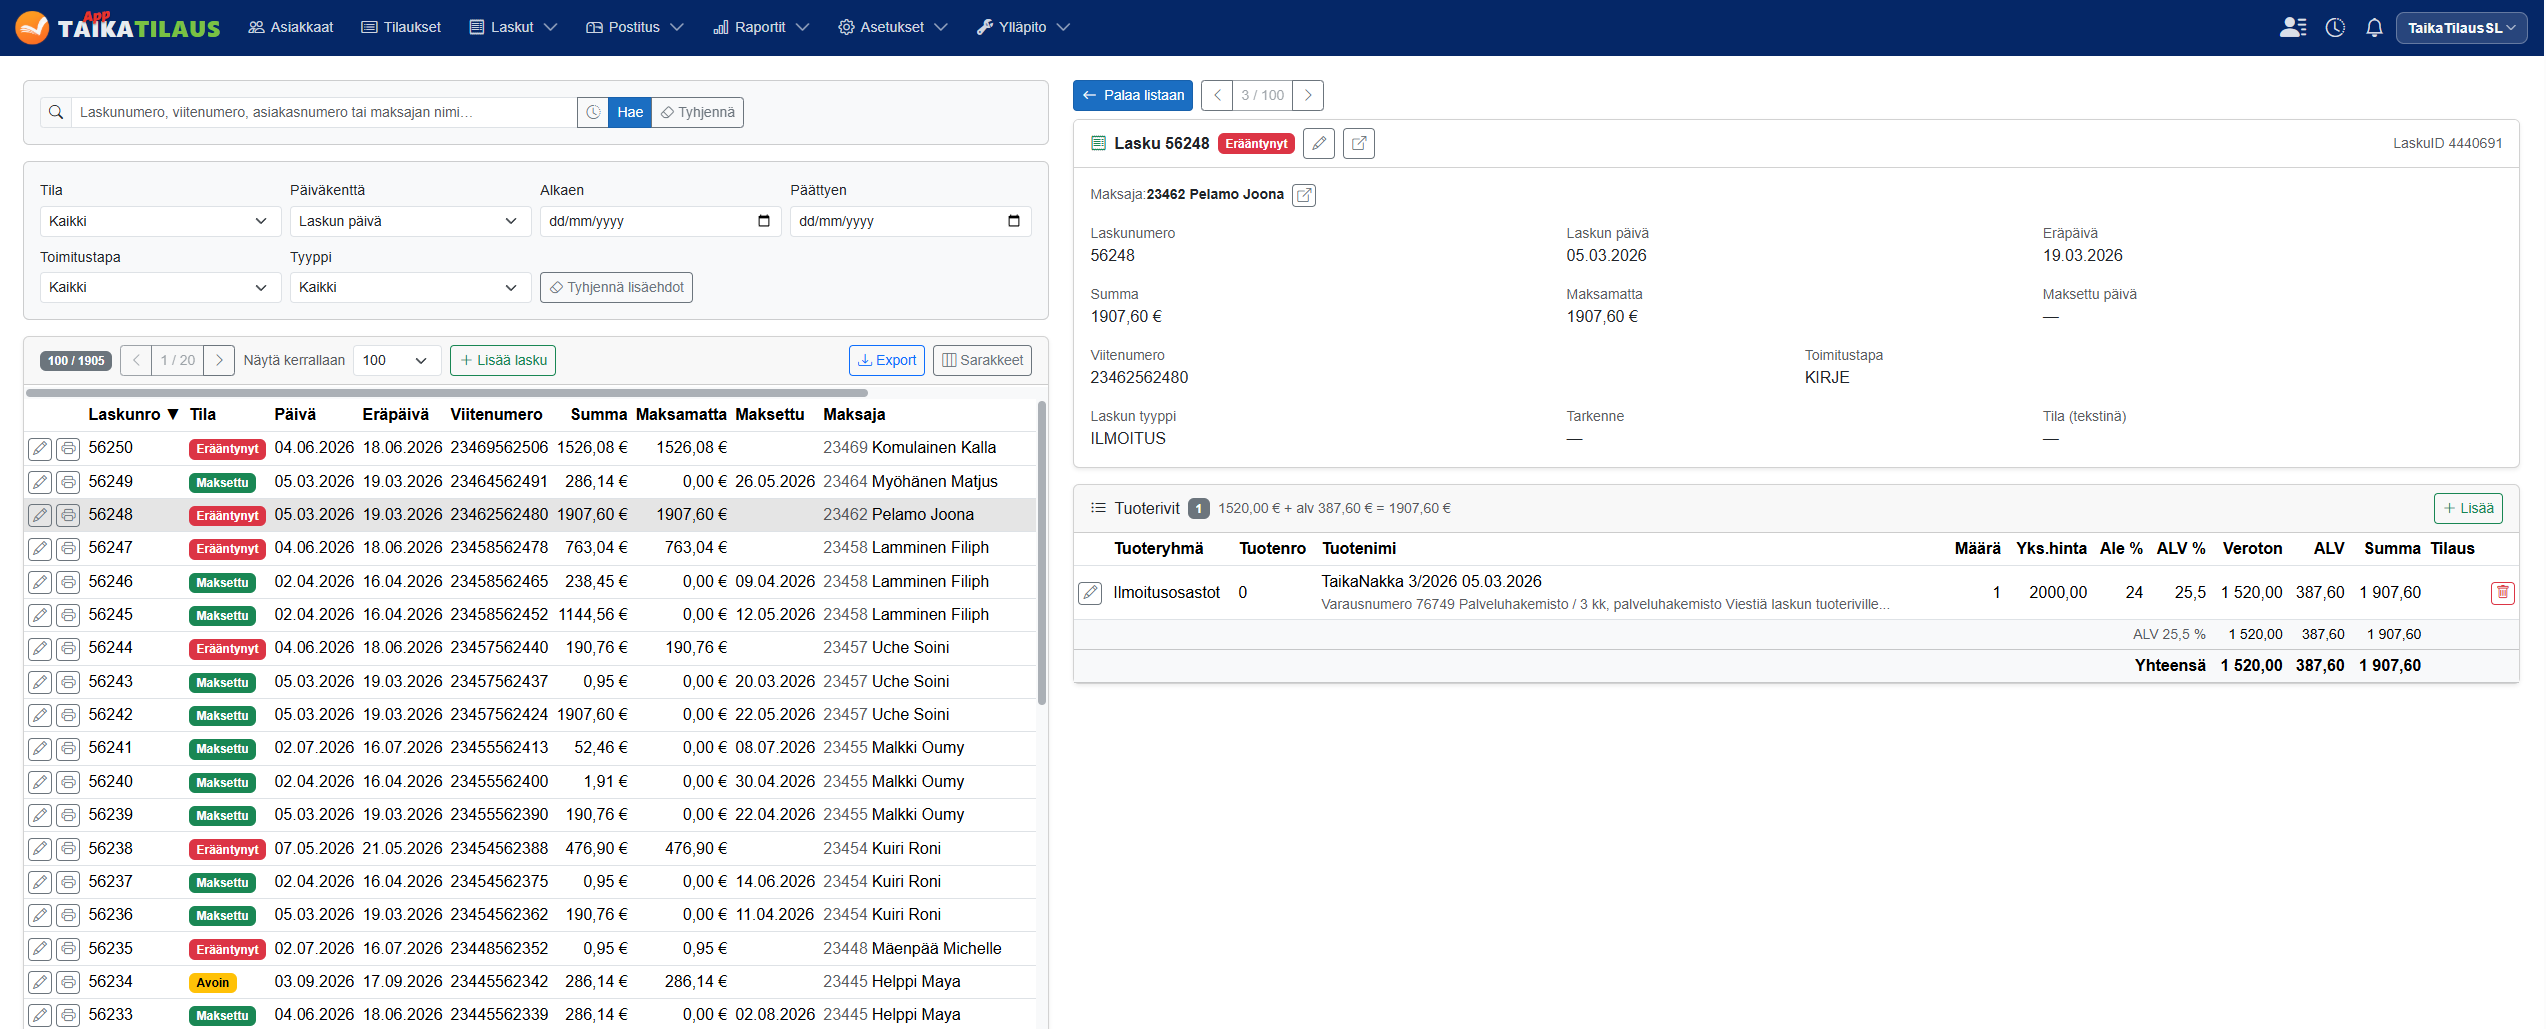
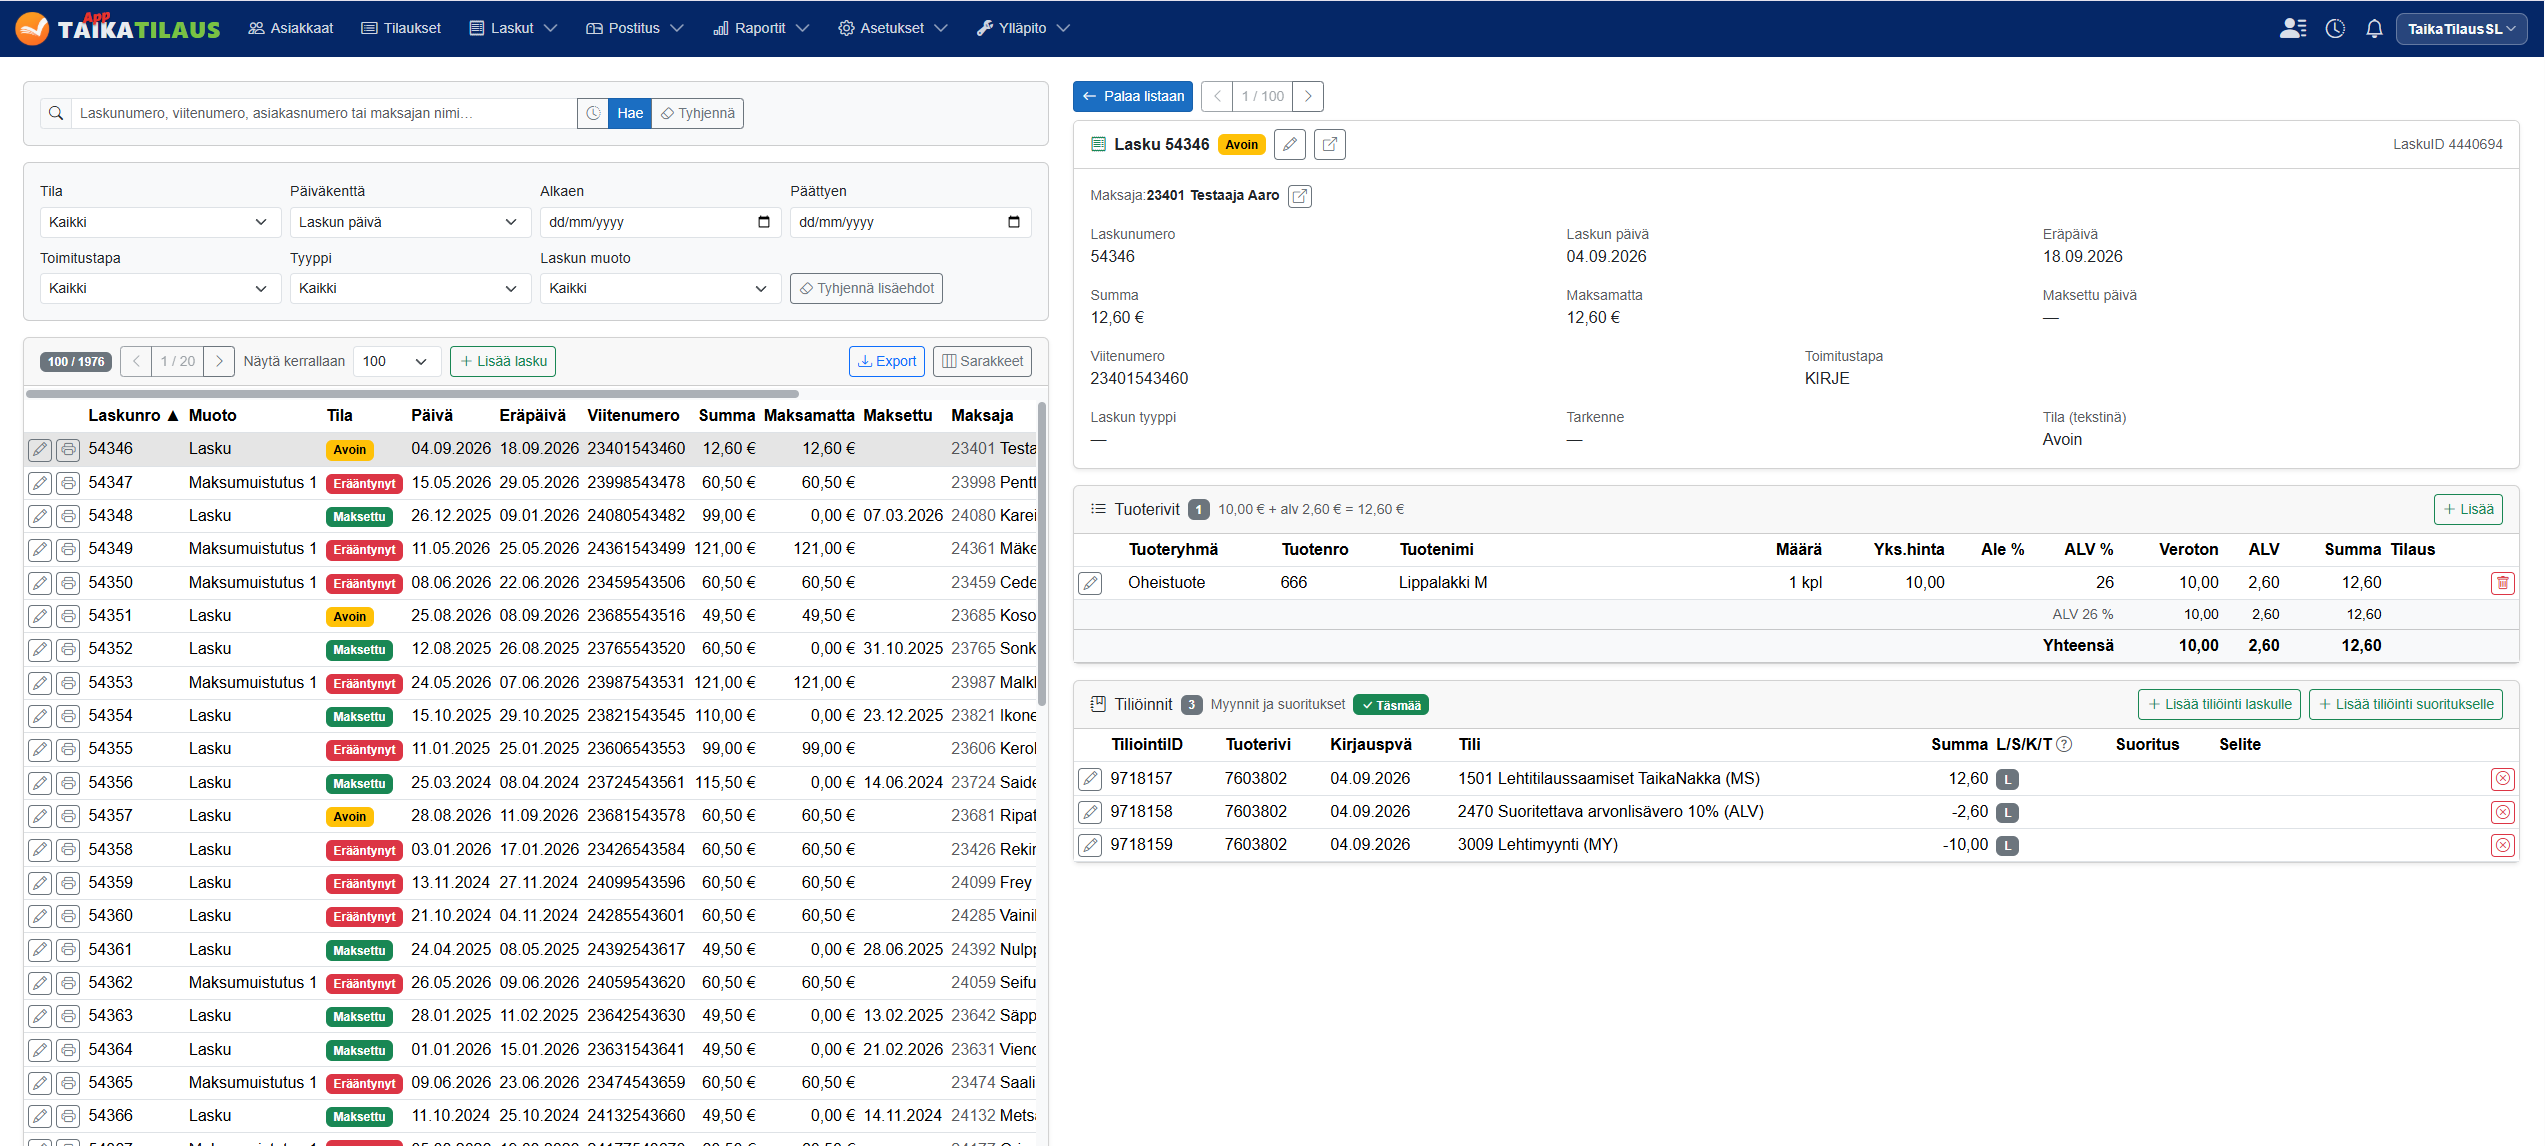
laskut paiv

diff --git a/docs/uusi_versio/Laskut/laskujen-haku.md b/docs/uusi_versio/Laskut/laskujen-haku.md
@@ -90,6 +90,8 @@ Esikatselussa voit:
 - avata laskun uuteen välilehteen napsauttamalla **nuolella varustettua laatikkokuvaketta**
 - avata maksajan asiakaskortin uuteen välilehteen napsauttamalla maksajan vieressä olevaa **nuolella varustettua laatikkokuvaketta**.
 - lisätä laskulle uuden tuoterivin napsauttamalla **Tuoterivit**-osion **Lisää**-painiketta.
+- lisätä laskulle uuden luontivaiheen tiliöinnin napsauttamalla **Tiliöinnit**-osion **Lisää tiliöinti laskulle** -painiketta. 
+- lisätä laskuun liittyvälle suoritukselle uuden tiliöinnin napsauttamalla **Tiliöinnit**-osion **Lisää tiliöinti suoritukselle** -painiketta. 
 
 ![Laskun esikatselu laskuluettelossa](/img/versio2/laskujen-haku10.png)
 
